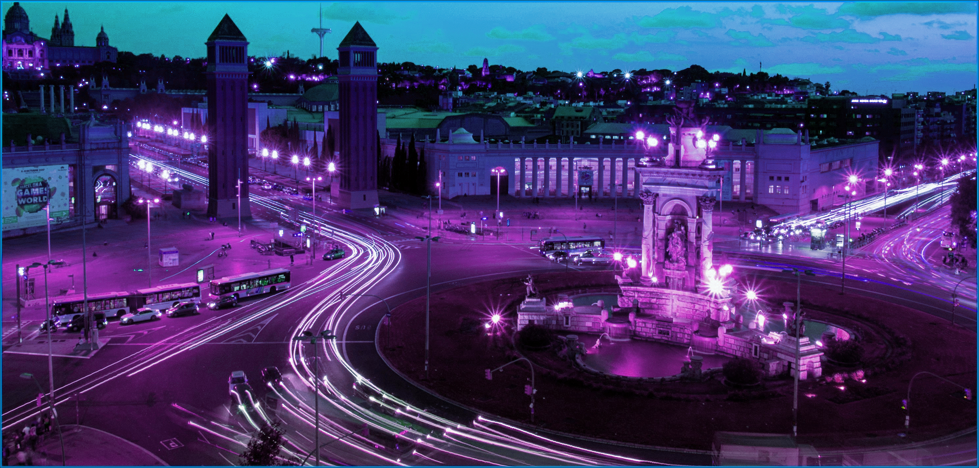
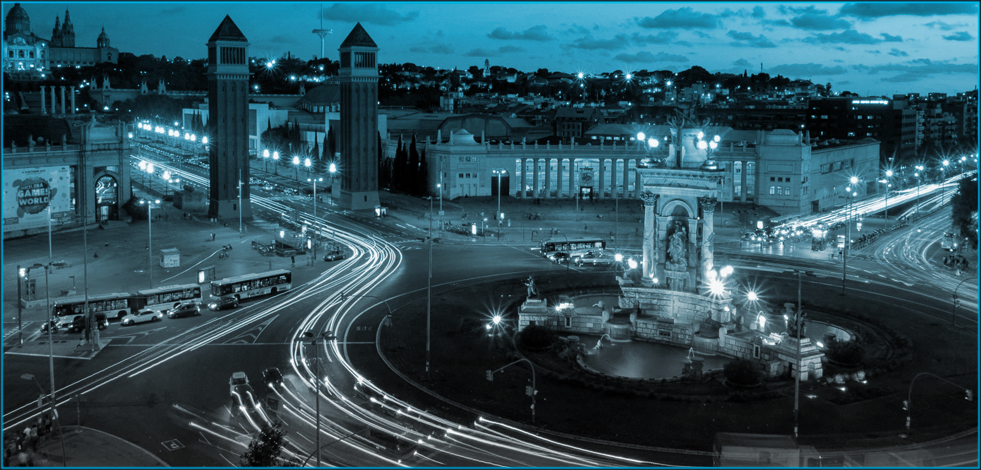
add images, blank speakers, ticket section

diff --git a/src/app/page.tsx b/src/app/page.tsx
@@ -1,7 +1,9 @@
+import { SpeakerCardDummy } from '@/components/speakerCard'
+
 export default function Home() {
   return (
     <div>
-      <section className="relative bg-[url('/bg.jpg')] bg-cover bg-center bg-no-repeat">
+      <section className="relative bg-[url('/bg2.jpg')] bg-cover bg-center bg-no-repeat">
         <div className="absolute top-0 left-0 h-full w-full bg-black opacity-50"></div>
         <div className="relative mx-auto grid max-w-7xl items-center gap-10 px-6 pt-40 pb-30 lg:grid-cols-2">
           <div className="z-10">
@@ -40,31 +42,42 @@ export default function Home() {
       </section>
       <section className="mx-auto max-w-7xl px-6 py-30" id="about">
         <h2>About</h2>
-        <p className="max-w-3xl text-lg leading-loose">
-          Join us in Barcelona for the Electronic Cash Conference — a two-day
-          gathering of developers, researchers, builders, and advocates focused
-          on the future of digital money.
-          <br />
-          <br />
-          Through talks, panels, and hands-on workshops, we&apos;ll explore
-          topics such as building the permissionless economy, new products
-          enabled by the properties of scalable digital cash, and what it means
-          to build resilient global peer-to-peer cash systems.
-          <br />
-          <br />
-          Come connect with the community pushing the boundaries of what&apos;s
-          possible in decentralized finance.
-        </p>
+        <div className="flex flex-col items-start gap-10 md:flex-row">
+          <p className="max-w-3xl text-lg leading-loose">
+            Join us in Barcelona for the Electronic Cash Conference — a two-day
+            gathering of developers, researchers, builders, and advocates
+            focused on the future of digital money.
+            <br />
+            <br />
+            Through talks, panels, and hands-on workshops, we&apos;ll explore
+            topics such as building the permissionless economy, new products
+            enabled by the properties of scalable digital cash, and what it
+            means to build resilient global peer-to-peer cash systems.
+            <br />
+            <br />
+            Come connect with the community pushing the boundaries of
+            what&apos;s possible in decentralized finance.
+          </p>
+          <img src="/hall.jpg" className="w-full md:w-1/2" />
+        </div>
       </section>
 
-      {/* <section className="mx-auto max-w-7xl px-6 pt-0 pb-30">
+      <section className="mx-auto max-w-7xl px-6 pt-0 pb-30">
         <h2>Speakers</h2>
+        <p className="text-lg leading-loose">
+          We’re excited to host a lineup of incredible speakers. Stay tuned,
+          speaker announcements coming soon!
+        </p>
         <div className="flex flex-wrap">
-          {speakers.map((speaker, i) => (
+          {/* {speakers.map((speaker, i) => (
             <SpeakerCard key={i} speaker={speaker} />
-          ))}
+          ))} */}
+          <SpeakerCardDummy />
+          <SpeakerCardDummy />
+          <SpeakerCardDummy />
+          <SpeakerCardDummy />
         </div>
-      </section> */}
+      </section>
 
       <section className="mx-auto max-w-7xl px-6 pt-0 pb-30" id="location">
         <h2>Location</h2>
@@ -93,6 +106,38 @@ export default function Home() {
               className="max-h-full max-w-full"
             />
           </div>
+        </div>
+      </section>
+
+      <section className="mx-auto max-w-7xl px-6 pt-0 pb-30" id="tickets">
+        <h2>Tickets</h2>
+        <div className="flex flex-col items-start gap-10 md:flex-row">
+          <p>
+            Tickets will be available to purchase (with eCash) soon. Stay tuned
+            for pricing and availability!
+          </p>
+          <img src="/ticket.jpg" alt="ECC Ticket" className="w-full md:w-2/3" />
+        </div>
+      </section>
+
+      <section className="w-full bg-black">
+        <div className="mx-auto flex max-w-7xl items-center justify-between px-6 py-40 pt-20">
+          <img
+            src="/ecc-logo.png"
+            alt="Electronic Cash Conference Logo"
+            className="h-14 w-auto"
+          />
+          <a
+            href="https://x.com/eCashOfficial"
+            target="_blank"
+            rel="noopener noreferrer"
+          >
+            <img
+              src="/x.png"
+              alt="Electronic Cash Conference Logo"
+              className="h-8 w-auto"
+            />
+          </a>
         </div>
       </section>
     </div>

diff --git a/src/components/navbar.tsx b/src/components/navbar.tsx
@@ -40,24 +40,24 @@ export default function Navbar() {
           >
             About
           </Link>
-          {/* <Link
+          <Link
             href="#speakers"
             className="hover:text-accent font-semibold transition duration-200"
           >
             Speakers
-          </Link> */}
+          </Link>
           <Link
             href="#location"
             className="hover:text-accent font-semibold transition duration-200"
           >
             Location
           </Link>
-          {/* <Link
-            href="#register"
-            className="from-accent to-accentDark rounded-full bg-gradient-to-r px-4 py-2 font-semibold text-white transition duration-200 hover:opacity-90"
+          <Link
+            href="#tickets"
+            className="from-accent to-accentDark rounded-full bg-gradient-to-r px-5 py-1 font-semibold text-white transition duration-200 hover:opacity-90"
           >
-            Register
-          </Link> */}
+            Tickets
+          </Link>
         </nav>
 
         {/* Mobile Hamburger */}
@@ -80,13 +80,13 @@ export default function Navbar() {
           >
             About
           </Link>
-          {/* <Link
+          <Link
             href="#speakers"
             onClick={() => setIsOpen(false)}
             className="block font-semibold"
           >
             Speakers
-          </Link> */}
+          </Link>
           <Link
             href="#location"
             onClick={() => setIsOpen(false)}
@@ -94,13 +94,13 @@ export default function Navbar() {
           >
             Location
           </Link>
-          {/* <Link
-            href="#register"
+          <Link
+            href="#speakers"
             onClick={() => setIsOpen(false)}
-            className="block rounded-full bg-gradient-to-r from-purple-600 to-purple-400 px-5 py-2 text-center font-semibold text-white"
+            className="from-accent to-accentDark max-w-[120px] rounded-full bg-gradient-to-r px-5 py-1 text-center font-semibold text-white transition duration-200 hover:opacity-90"
           >
-            Register
-          </Link> */}
+            Tickets
+          </Link>
         </div>
       )}
     </header>

diff --git a/src/components/speakerCard.tsx b/src/components/speakerCard.tsx
@@ -23,3 +23,24 @@ export default function SpeakerCard({ speaker }: SpeakerCardProps) {
     </div>
   )
 }
+
+export function SpeakerCardDummy() {
+  return (
+    <div className="flex w-full flex-col p-4 sm:w-1/2 md:w-1/4">
+      <div className="relative flex h-[200px] w-full items-end justify-end md:h-[250px] lg:h-[300px]">
+        <img
+          src="/blank-speaker.png"
+          alt="ECC Speaker"
+          className="absolute left-1/2 z-10 max-h-full max-w-full -translate-x-1/2"
+        />
+        <div className="from-accent/50 to-background border-accent h-2/3 w-full rounded-t-lg border-x-2 border-t-2 bg-gradient-to-b"></div>
+      </div>
+      <div className="bg-card flex-1 p-6">
+        <div className="bg-secondaryText h-4 w-full opacity-60"></div>
+        <div className="bg-secondaryText mt-4 h-2 w-full opacity-30"></div>
+        <div className="bg-secondaryText mt-2 h-2 w-full opacity-30"></div>
+        <div className="bg-secondaryText mt-2 h-2 w-2/3 opacity-30"></div>
+      </div>
+    </div>
+  )
+}

diff --git a/src/app/globals.css b/src/app/globals.css
@@ -20,6 +20,10 @@
   --color-card: var(--card);
 }
 
+html {
+  scroll-behavior: smooth;
+}
+
 body {
   background: var(--background);
   color: var(--text);
